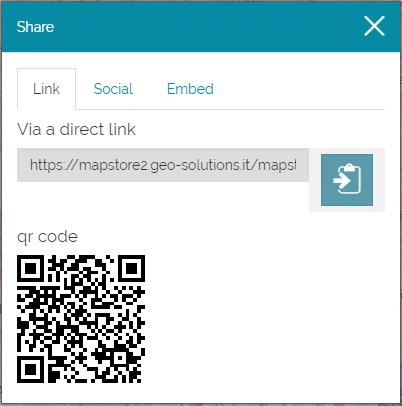
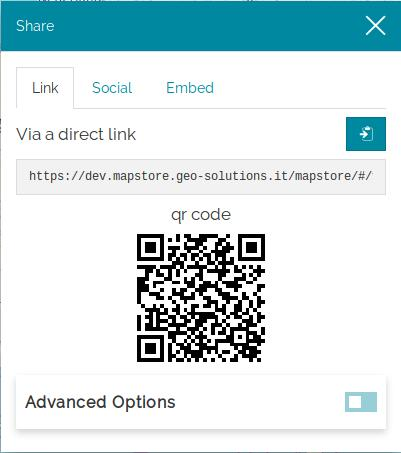
update user doc

Changed region(s): [[0.0, 0.0, 1.0, 1.0], [0.8379, 0.8571, 0.9576, 0.9163], [0.419, 0.1773, 0.5387, 0.2365]]

diff --git a/docs/user-guide/widgets.md b/docs/user-guide/widgets.md
@@ -26,6 +26,13 @@ When created, The widgets will be placed on the map (or in the dashboard, depend
 
 The **Widget Tray** is a plugin that allow to expand/collapse widgets one by one. In this tray you can see one item for each widget. You can click on these items to collapse or expand the single widgets. A **Collapse All** button allow to collapse or expand all widgets at once.
 
+Widgets and **[Timeline](timeline.md#timeline)** cannot be expanded on the same map at the same time.<br>
+If a layer with a time dimension is added to the map, the *Timeline* will be shown on the screen and not-pinned widgets will collapse in the tray automatically.<br>
+When a widget is added to the map, the *Timeline* will collapse in the tray and all the widgets will expand. A tooltip will highlight the *Timeline* icon in the tray.<br>
+When those events occur a **notification** explains what happened and how to manage the widgets and the *Timeline*.
+
+<img src="../img/timeline-collapse.jpg"/>
+
 Creating Chart Widget
 ---------------------
 

diff --git a/docs/user-guide/share.md b/docs/user-guide/share.md
@@ -23,3 +23,9 @@ From the *Social* tab, you can share the map on social networks.
 From the *Embed* tab, you can embed the iframe code in your website or using APIs (for expert developers).
 
 <p align = "center" ><img src="../img/share-3.jpg" style="max-width:500px;" /></p>
+
+If you enable the *Advanced Options* an additional option to the sharable map link can be added to include the **bbox** as query parameter, the value corresponds to the current extent in the viewport.
+
+<p align = "center" ><img src="../img/share-bbox.jpg" style="max-width:500px;" /></p>
+
+The **bbox** query parameter is needed to zoom the map to a specific extent at startup.

diff --git a/docs/user-guide/timeline.md b/docs/user-guide/timeline.md
@@ -11,6 +11,7 @@ When you load ***time layers*** the Timeline panel becomes automatically visible
 
 <img src="../img/timeline-base.jpg" />
 
+Widgets and Timeline cannot be expanded on the same map at the same time. See [this section](widgets.md#widgets-tray) to learn more about this.
 
 Timeline histogram
 ------------------
